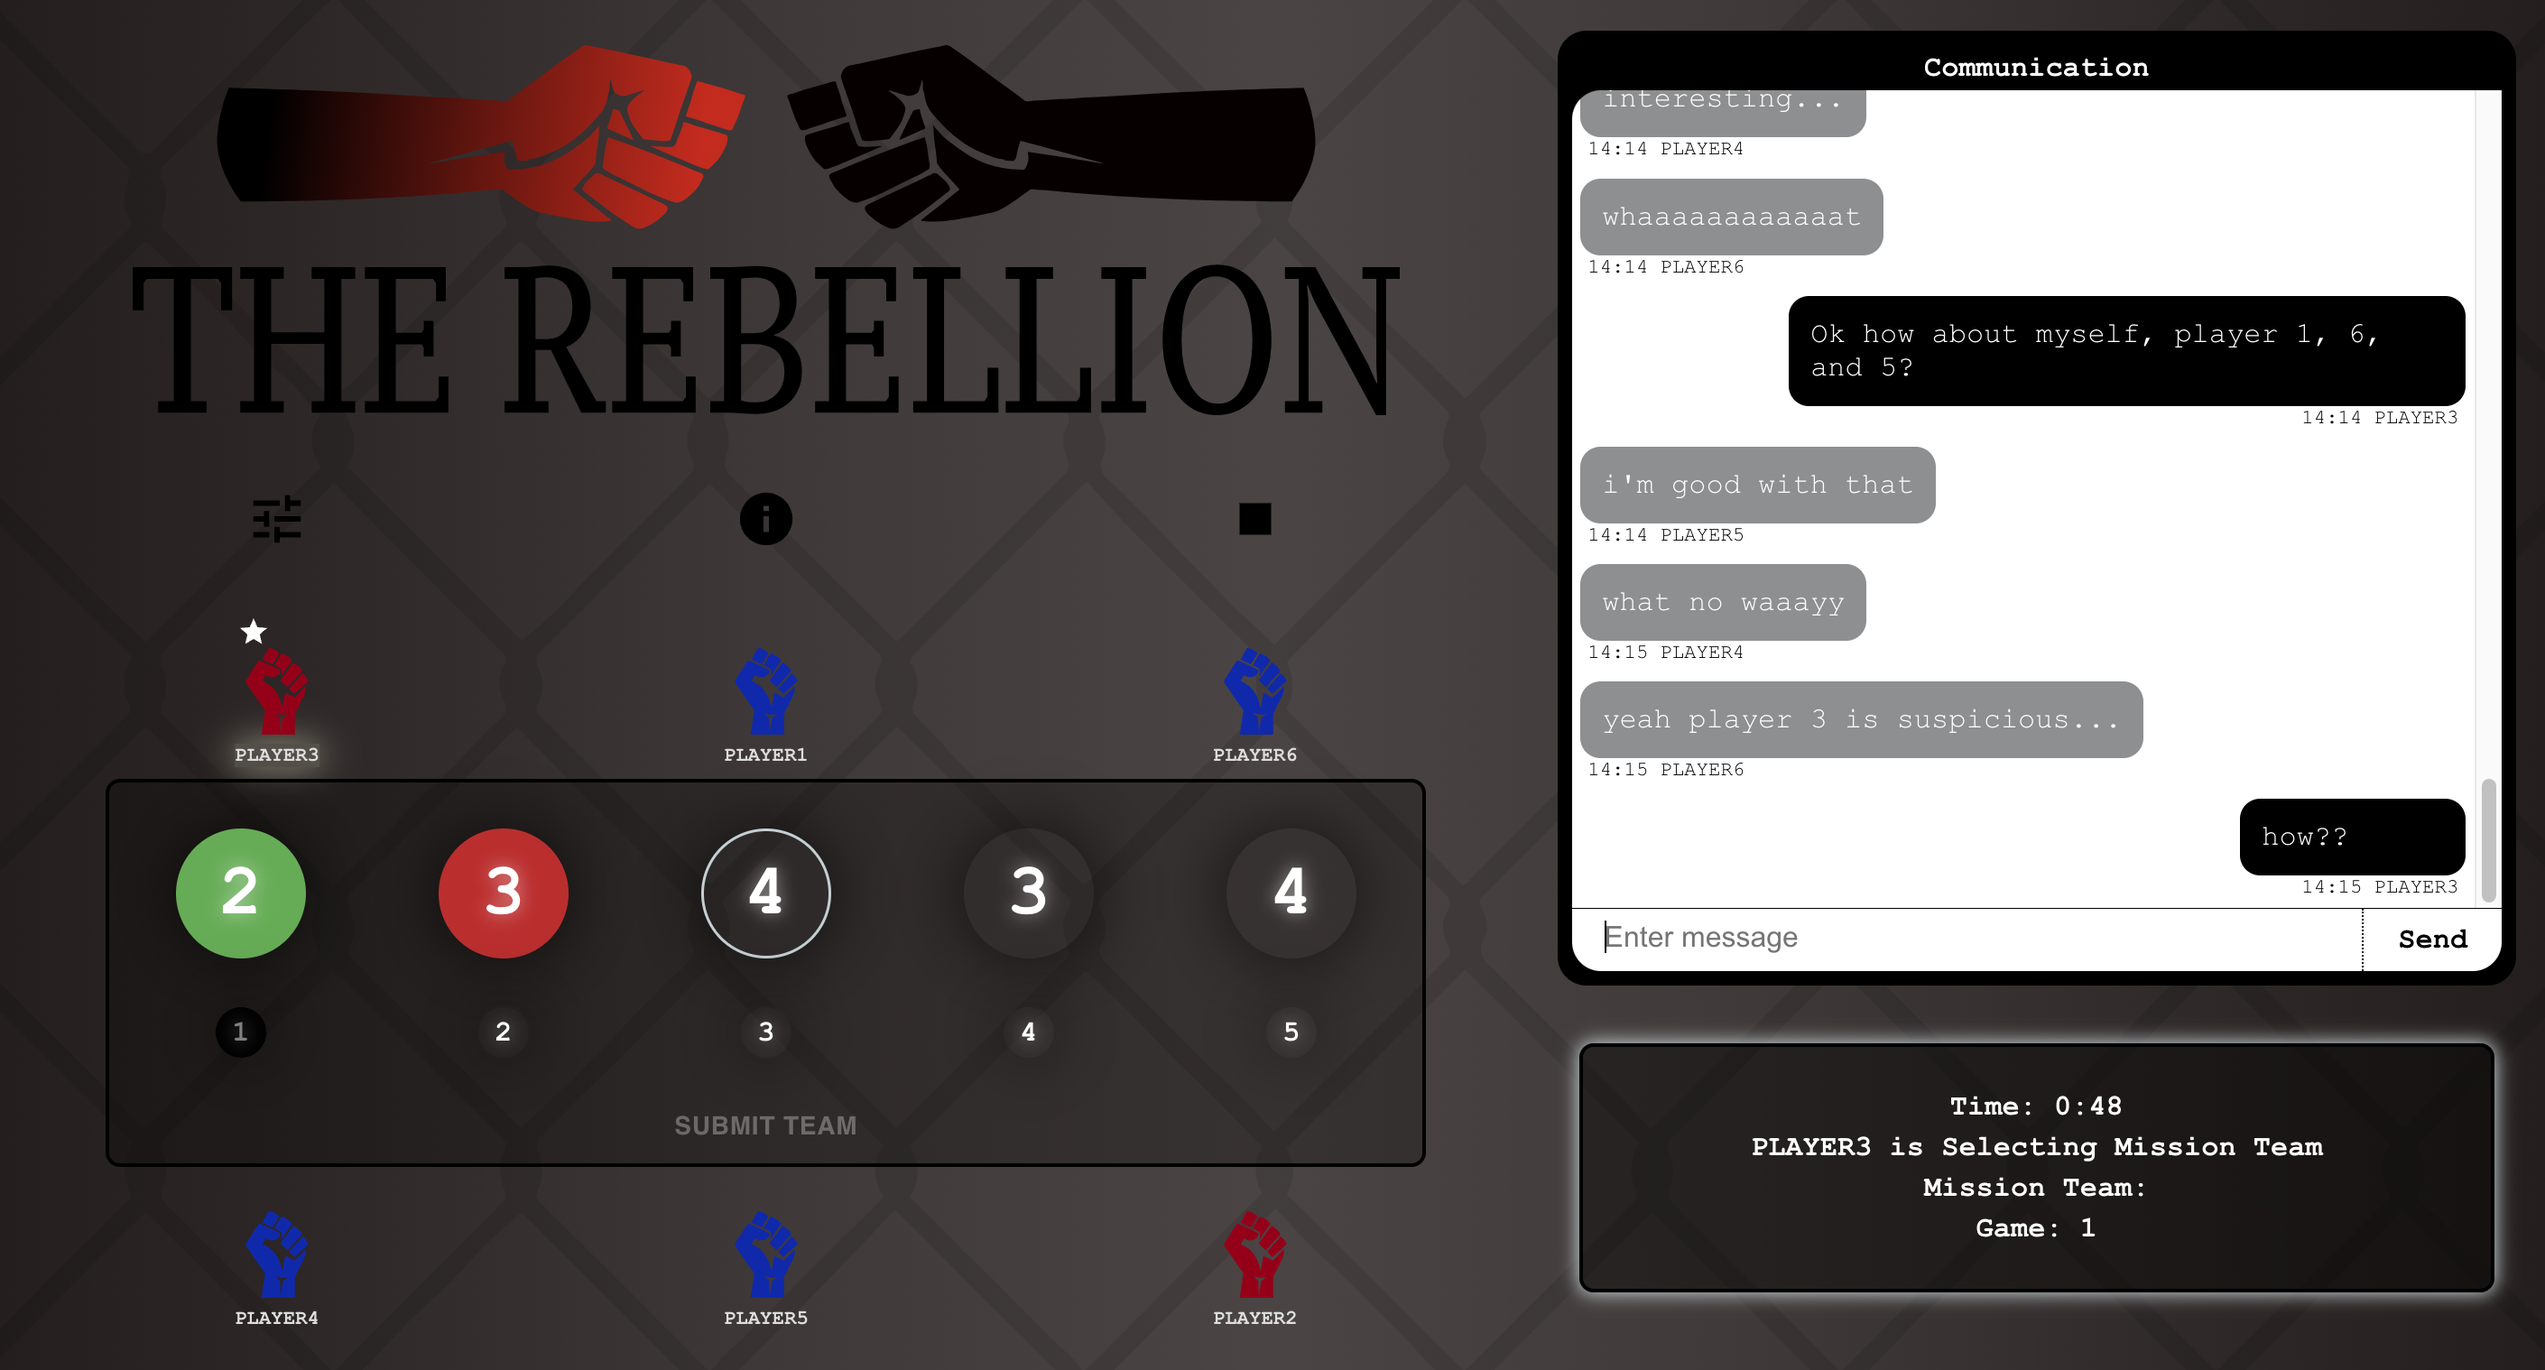
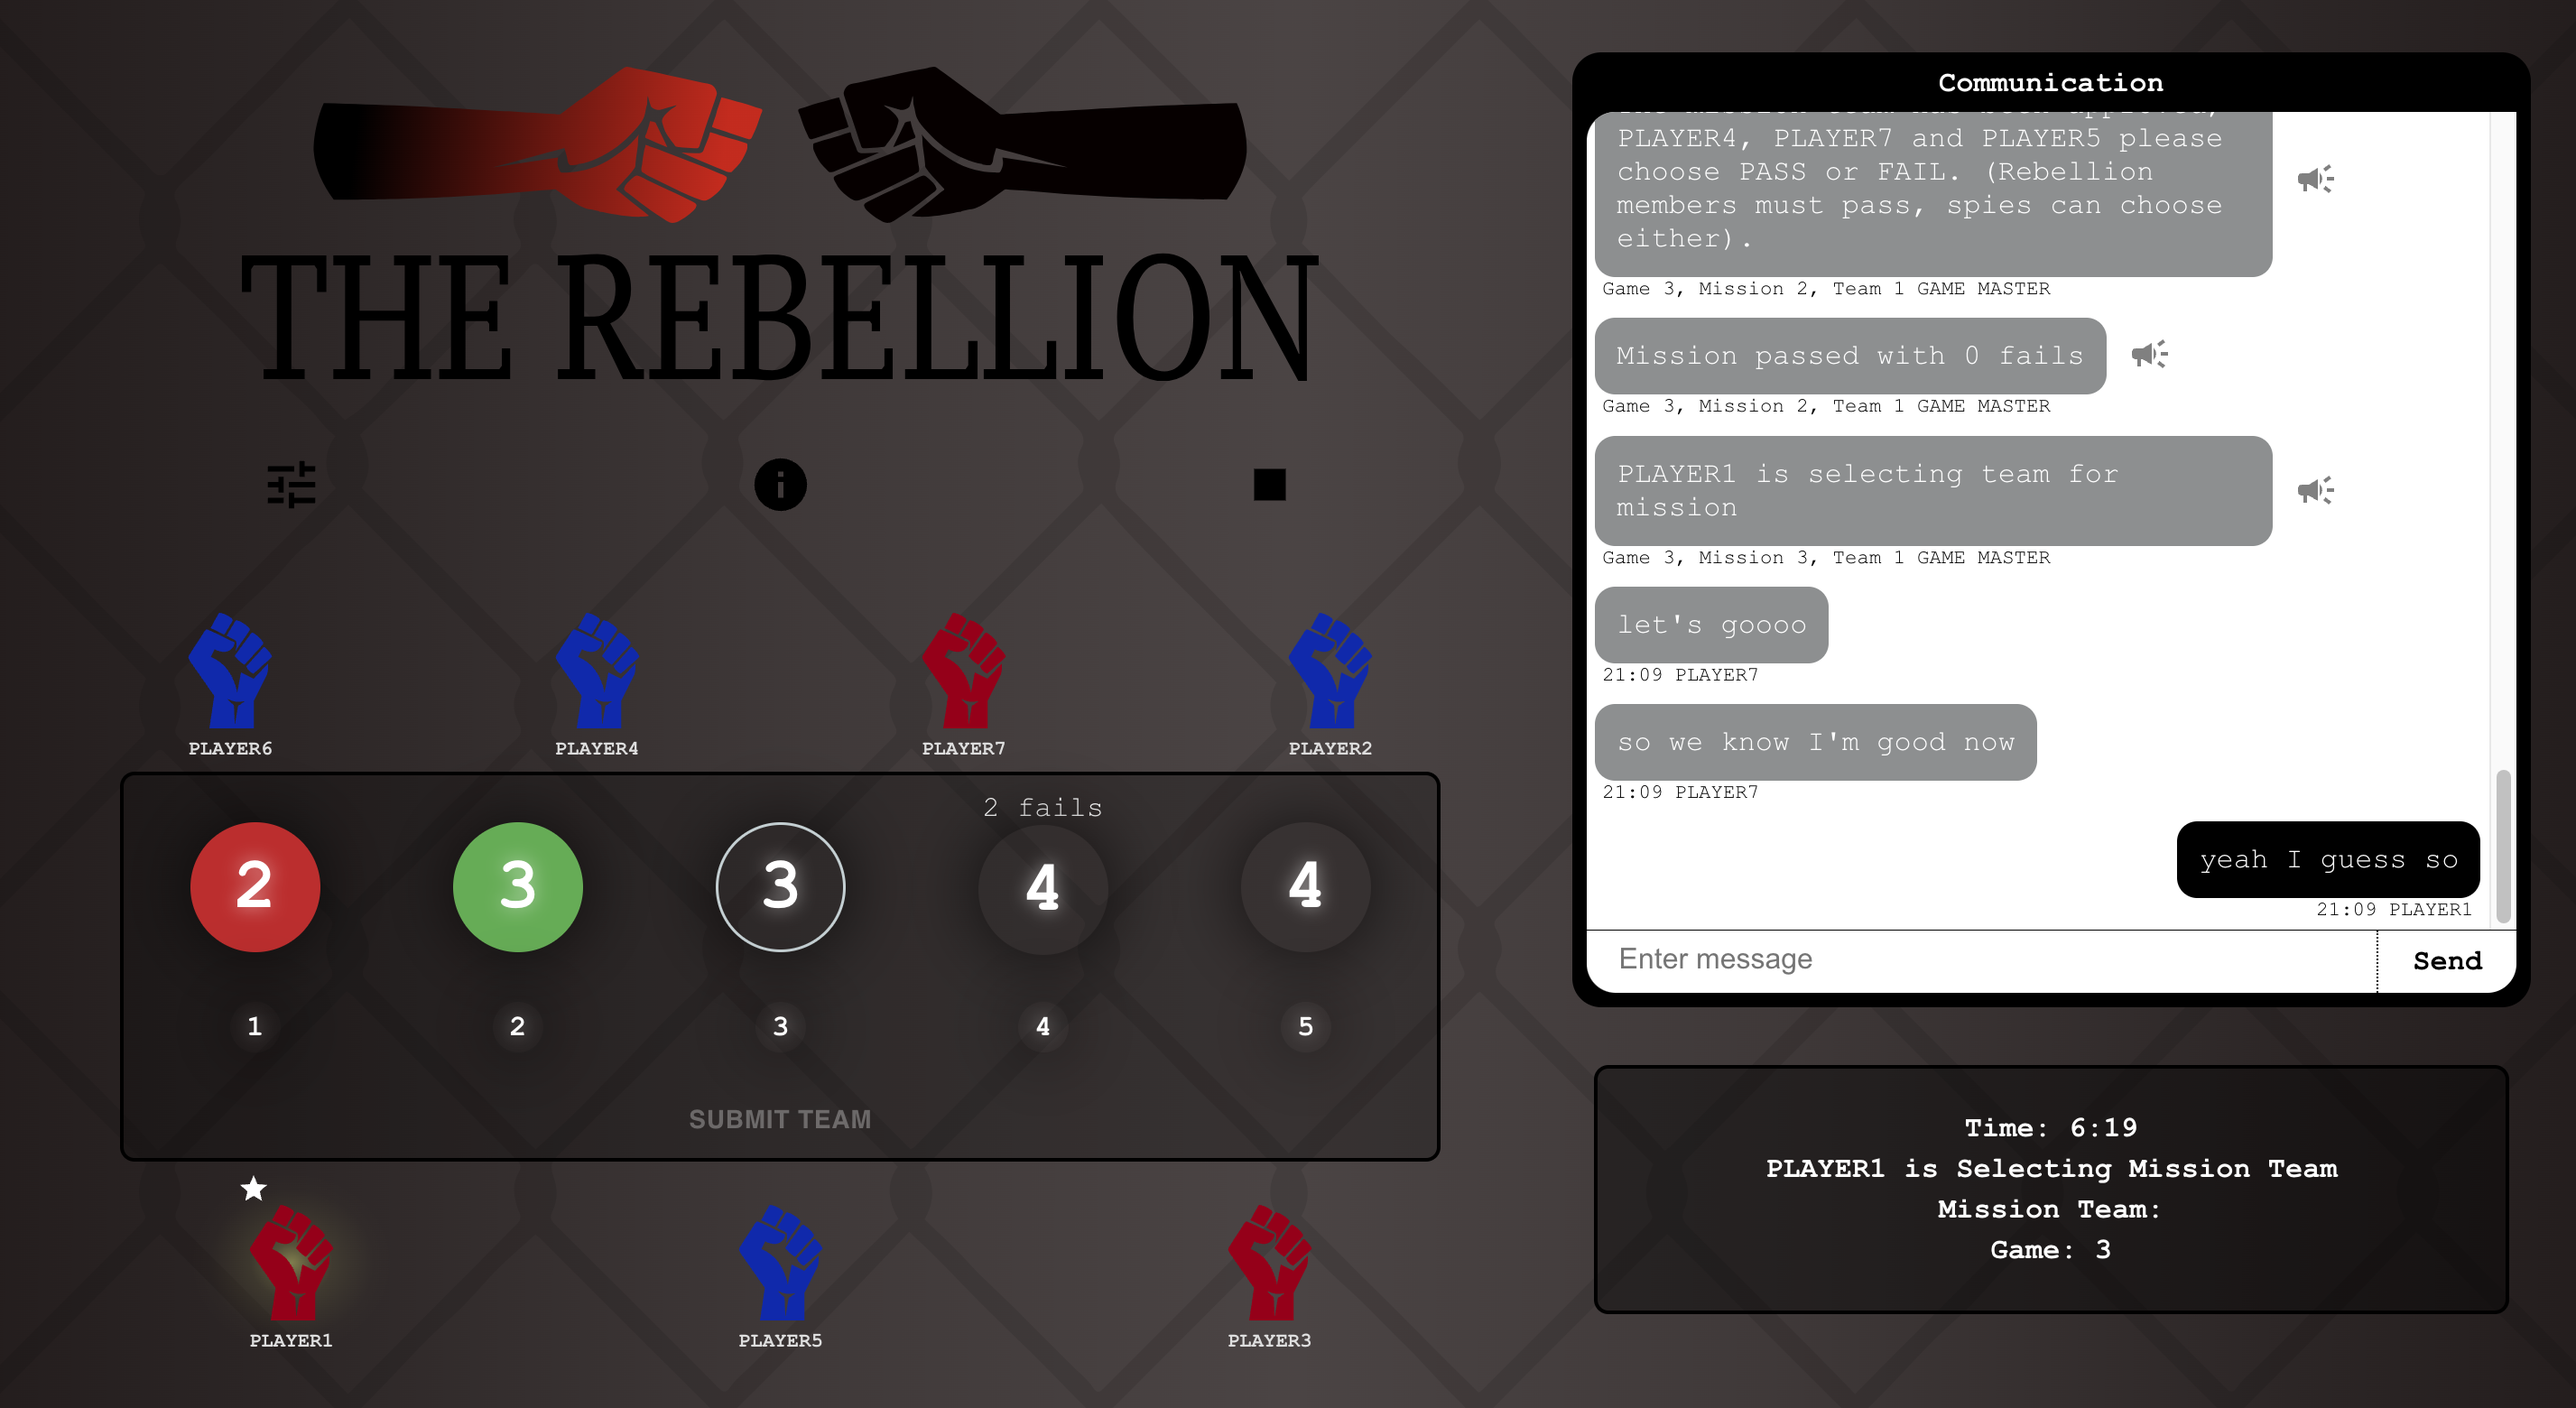
made fists bigger

diff --git a/src/App.css b/src/App.css
@@ -140,7 +140,6 @@ body {
   align-self: center;
 
   padding: 20px;
-  box-shadow: 0px 0px 10px 1px var(--my-glow);
 }
 
 .titleLogo {
@@ -151,7 +150,7 @@ body {
   justify-content: center;
   align-content: center;
   align-self: center;
-  width: 85%;
+  width: 72.5%;
 }
 
 .information { 
@@ -331,7 +330,7 @@ body {
   display: flex;
   justify-content: center;
   align-items: center;
-  gap: 0.5rem;
+  gap: 1.5rem;
 }
 .player .status div {
   display: flex;
@@ -384,7 +383,7 @@ body {
 
   display: flex;
   justify-content: center;
-  align-items: center;
+  align-items: flex-start;
 }
 .chatWindow .chatHeader p {
   color: white;
@@ -812,9 +811,6 @@ td {
   .playerUsername {
     font-size: 1rem;
   }
-  .player .status {
-    gap: 1.2rem;
-  }
   .footerLinks {
     font-size: large;
   }
@@ -874,6 +870,9 @@ td {
     width: 95svw;
     align-self: center;
   }
+  .chatWindow .chatHeader {
+    align-items: center;
+  }
 }
 
 @media all and (max-height: 450px) and (orientation: landscape) {
@@ -918,6 +917,9 @@ td {
     height: 80svh;
     width: 95svw;
     align-self: center;
+  }
+  .chatWindow .chatHeader {
+    align-items: center;
   }
 }
 

diff --git a/src/Screens/GameScreen/Components/GameArea/PlayerBox/PlayerBox.jsx b/src/Screens/GameScreen/Components/GameArea/PlayerBox/PlayerBox.jsx
@@ -45,8 +45,8 @@ function PlayerBox({
         onClick={onClick}
       >
         <Fist
-          width={is4K ? "4rem" : isThinning ? "2.5rem" : "3rem"} 
-          height={is4K ? "4rem" : isThinning ? "2.5rem" : "3rem"}
+          width={is4K ? "5rem" : isThinning ? "3rem" : "4rem"} 
+          height={is4K ? "5rem" : isThinning ? "3rem" : "4rem"}
         />
       </div>
 
